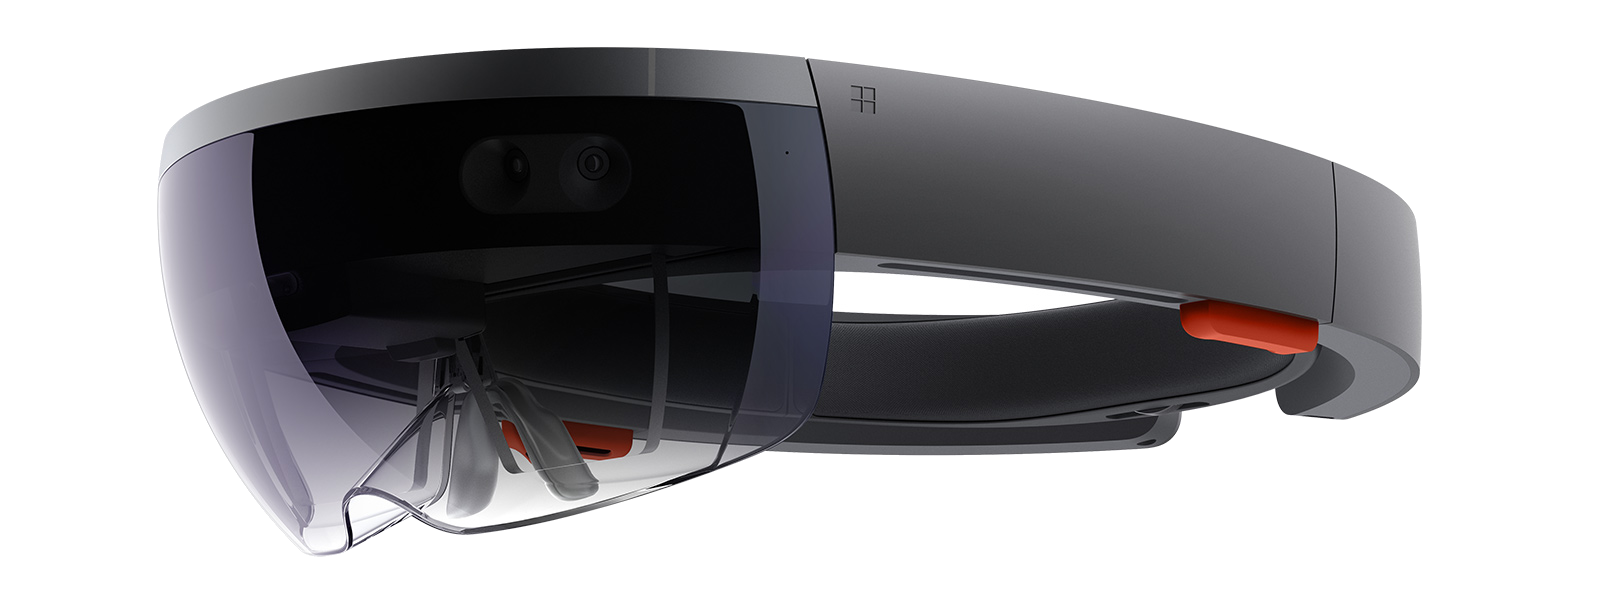
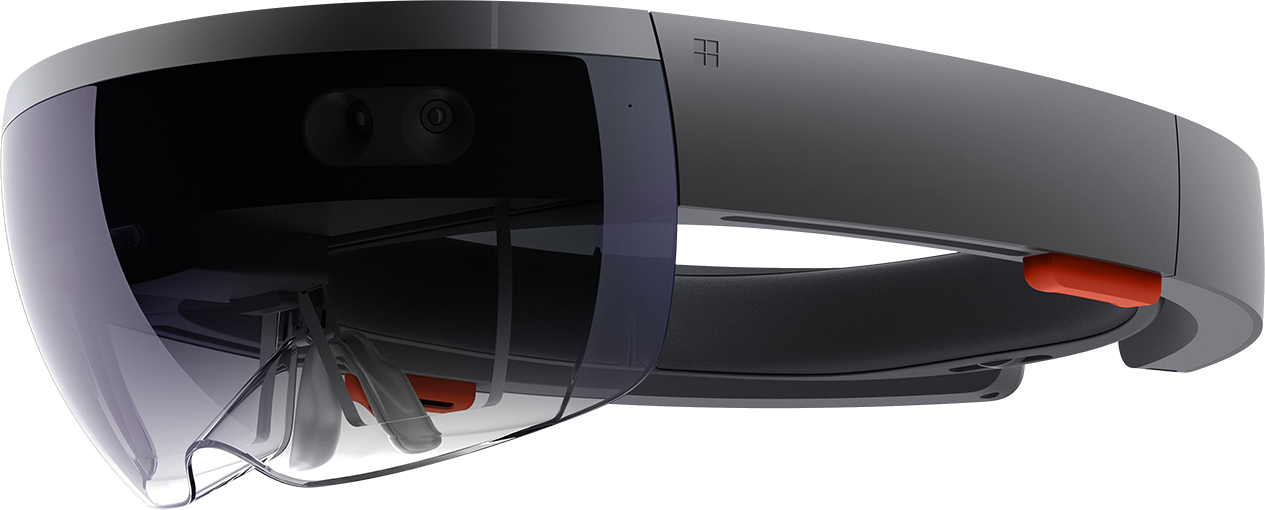
updated layout

diff --git a/augmentedreality.html b/augmentedreality.html
@@ -7,20 +7,21 @@
 	<meta charset="utf-8">
 	<meta name="viewport" content="width=device-width, initial-scale=1">
 
-	<title>Augmented reality | PCHS Webmaster Webpage</title>
+	<title>Augmented Reality | Panther Creek High School</title>
 
 	<link href="https://fonts.googleapis.com/css?family=Roboto" rel="stylesheet">
 	<link rel="stylesheet" href="https://ajax.googleapis.com/ajax/libs/angular_material/1.1.0-rc2/angular-material.min.css">
 
 	<link href="css/nav.css" rel="stylesheet">
 	<link href="css/video-container.css" rel="stylesheet">
-	<link href="css/index.css" rel="stylesheet">
+	<link href="css/main.css" rel="stylesheet">
+	<link href="css/augmentedreality.css" rel="stylesheet">
 
 	<link href="img/favicon.ico" rel="shortcut icon">
 
 </head>
 
-<body ng-controller="AppController as AppCtrl" md-swipe-right="openMenu()" md-swipe-left="closeMenu()" ng-cloak>
+<body ng-controller="AppController as AppCtrl" ng-swipe-right="openMenu()" ng-swipe-left="closeMenu()" ng-cloak>
 
 <ng-include src="'navigation.template.html'"></ng-include>
 
@@ -43,7 +44,7 @@
 
 	<md-card id="mainContent">
 
-		<img src="img/hololens-transparent.png" title="Test" id="mainImage">
+		<img src="img/hololens-transparent.png" title="Microsoft HoloLens" id="mainImage">
 
 		<p>
 			Augmented reality is a technology that "superimposes a computer-generated image on a user's view of the real world, thus providing a composite view". Augmented reality used to be unthinkable, but now its very real and can be used for many things such as Education, Entertainment, Jobs/Industry and many more. Augmented reality has alot of potential and may just be the new rising industry.
@@ -66,6 +67,7 @@
 	<script src="https://ajax.googleapis.com/ajax/libs/angularjs/1.5.8/angular.min.js"></script>
 	<script src="https://cdnjs.cloudflare.com/ajax/libs/angular.js/1.5.8/angular-animate.min.js"></script>
 	<script src="https://ajax.googleapis.com/ajax/libs/angularjs/1.5.8/angular-aria.min.js"></script>
+	<script src="https://ajax.googleapis.com/ajax/libs/angularjs/1.5.8/angular-touch.min.js"></script>
 	<script src="https://ajax.googleapis.com/ajax/libs/angular_material/1.1.0-rc2/angular-material.min.js"></script>
 	<script src="https://code.jquery.com/jquery-3.0.0.min.js"></script>
 	<script src="js/app.controller.js"></script>

diff --git a/cteprogram.html b/cteprogram.html
@@ -7,19 +7,20 @@
 	<meta charset="utf-8">
 	<meta name="viewport" content="width=device-width, initial-scale=1">
 
-	<title>CTE Program | PCHS Webmaster Webpage</title>
+	<title>CTE Program | Panther Creek High School</title>
 	
 	<link href="https://fonts.googleapis.com/css?family=Roboto" rel="stylesheet">
 	<link rel="stylesheet" href="https://ajax.googleapis.com/ajax/libs/angular_material/1.1.0-rc2/angular-material.min.css">
 
 	<link href="css/nav.css" rel="stylesheet">
-	<link href="css/index.css" rel="stylesheet">
+	<link href="css/main.css" rel="stylesheet">
+	<link href="css/cteprogram.css" rel="stylesheet">
 
 	<link href="img/favicon.ico" rel="shortcut icon">
 
 </head>
 
-<body ng-controller="AppController as AppCtrl" md-swipe-right="openMenu()" md-swipe-left="closeMenu()" ng-cloak>
+<body ng-controller="AppController as AppCtrl" ng-swipe-right="openMenu()" ng-swipe-left="closeMenu()" ng-cloak>
 
 	<ng-include src="'navigation.template.html'"></ng-include>
 
@@ -52,6 +53,7 @@
 	<script src="https://ajax.googleapis.com/ajax/libs/angularjs/1.5.8/angular.min.js"></script>
 	<script src="https://cdnjs.cloudflare.com/ajax/libs/angular.js/1.5.8/angular-animate.min.js"></script>
 	<script src="https://ajax.googleapis.com/ajax/libs/angularjs/1.5.8/angular-aria.min.js"></script>
+	<script src="https://ajax.googleapis.com/ajax/libs/angularjs/1.5.8/angular-touch.min.js"></script>
 	<script src="https://ajax.googleapis.com/ajax/libs/angular_material/1.1.0-rc2/angular-material.min.js"></script>
 	<script src="https://code.jquery.com/jquery-3.0.0.min.js"></script>
 	<script src="js/app.controller.js"></script>

diff --git a/index.html b/index.html
@@ -7,12 +7,13 @@
 	<meta charset="utf-8">
 	<meta name="viewport" content="width=device-width, initial-scale=1">
 
-	<title>Home | PCHS Webmaster Webpage</title>
+	<title>Home | Panther Creek High School</title>
 
 	<link rel="stylesheet" href="https://fonts.googleapis.com/css?family=Roboto:300,400,500,700,400italic">
 	<link rel="stylesheet" href="https://ajax.googleapis.com/ajax/libs/angular_material/1.1.0-rc2/angular-material.min.css">
 
 	<link href="css/nav.css" rel="stylesheet">
+	<link href="css/main.css" rel="stylesheet">
 	<link href="css/index.css" rel="stylesheet">
 
 	<link href="img/favicon.ico" rel="shortcut icon">
@@ -56,6 +57,7 @@
 	<script src="https://ajax.googleapis.com/ajax/libs/angularjs/1.5.8/angular.min.js"></script>
 	<script src="https://cdnjs.cloudflare.com/ajax/libs/angular.js/1.5.8/angular-animate.min.js"></script>
 	<script src="https://ajax.googleapis.com/ajax/libs/angularjs/1.5.8/angular-aria.min.js"></script>
+	<script src="https://ajax.googleapis.com/ajax/libs/angularjs/1.5.8/angular-touch.min.js"></script>
 	<script src="https://ajax.googleapis.com/ajax/libs/angular_material/1.1.0-rc2/angular-material.min.js"></script>
 	<script src="https://code.jquery.com/jquery-3.0.0.min.js"></script>
 	<script src="js/app.controller.js"></script>

diff --git a/css/main.css b/css/main.css
@@ -1,0 +1,67 @@
+body {
+	font-family: Roboto, Arial;
+	margin: 0px !important;
+	height: initial;
+	display: none;
+}
+
+#landing {
+	font-size: 50px;
+	text-align: center;
+	color: black;
+	position: fixed;
+	top: 50%;
+	left: 50%;
+	-webkit-transform: translate(-50%, -50%);
+	        transform: translate(-50%, -50%);
+	z-index: 1;
+}
+
+#landingContainer {
+	width: 100vw;
+	height: 100vh;
+	margin-left: 50%;
+	-webkit-transform: translateX(-50%);
+	        transform: translateX(-50%);
+	position: fixed;
+	top: 90px;
+	background-color: #66baff;
+}
+
+#landingContainer img {
+	margin-left: 50%;
+	-webkit-transform: translateX(-50%);
+	        transform: translateX(-50%);
+	opacity: 0.5;
+	z-index: -1;
+}
+
+#mainContent {
+	width: 100vw;
+	margin: 100vh auto 0px auto;
+	padding: 15px;
+	position: relative;
+	z-index: 10;
+}
+
+#mainImage {
+	max-width: 60vw;
+	display: block;
+	margin-left: auto;
+	margin-right: auto;
+}
+
+@media screen and (orientation: landscape) {
+	#mainImage {
+		max-width: 40vw;
+	}
+}
+
+@media screen and (orientation: portrait), screen and (max-width: 1150px) {
+
+	#landingContainer img {
+		width: initial;
+		min-height: 100vh;
+	}
+
+}

diff --git a/js/app.controller.js b/js/app.controller.js
@@ -1,5 +1,5 @@
-angular.module('PCHS-Webmaster', ['ngAnimate', 'ngMaterial'])
-	.controller('AppController', ['$scope', '$mdSidenav', function($scope, $mdSidenav) {
+var app = angular.module('PCHS-Webmaster', ['ngAnimate', 'ngMaterial', 'ngTouch'])
+app.controller('AppController', ['$scope', '$mdSidenav', function($scope, $mdSidenav) {
 
 		$scope.openMenu = function() {
 			$mdSidenav("left").open();

diff --git a/css/video-container.css b/css/video-container.css
@@ -4,18 +4,18 @@
 	-webkit-transform: translateX(-50%);
 	        transform: translateX(-50%);
 	position: fixed;
-	top: 14vh;
+	top: 90px;
+	z-index: -5;
 }
 
 #video {
 	width: 100vw;
-	z-index: -99;
 }
 
 @media screen and (orientation: portrait), screen and (max-width: 1150px) {
 
 	#videoContainer {
-		top: calc(68px);
+		top: 90px;
 	}
 
 	#video {
